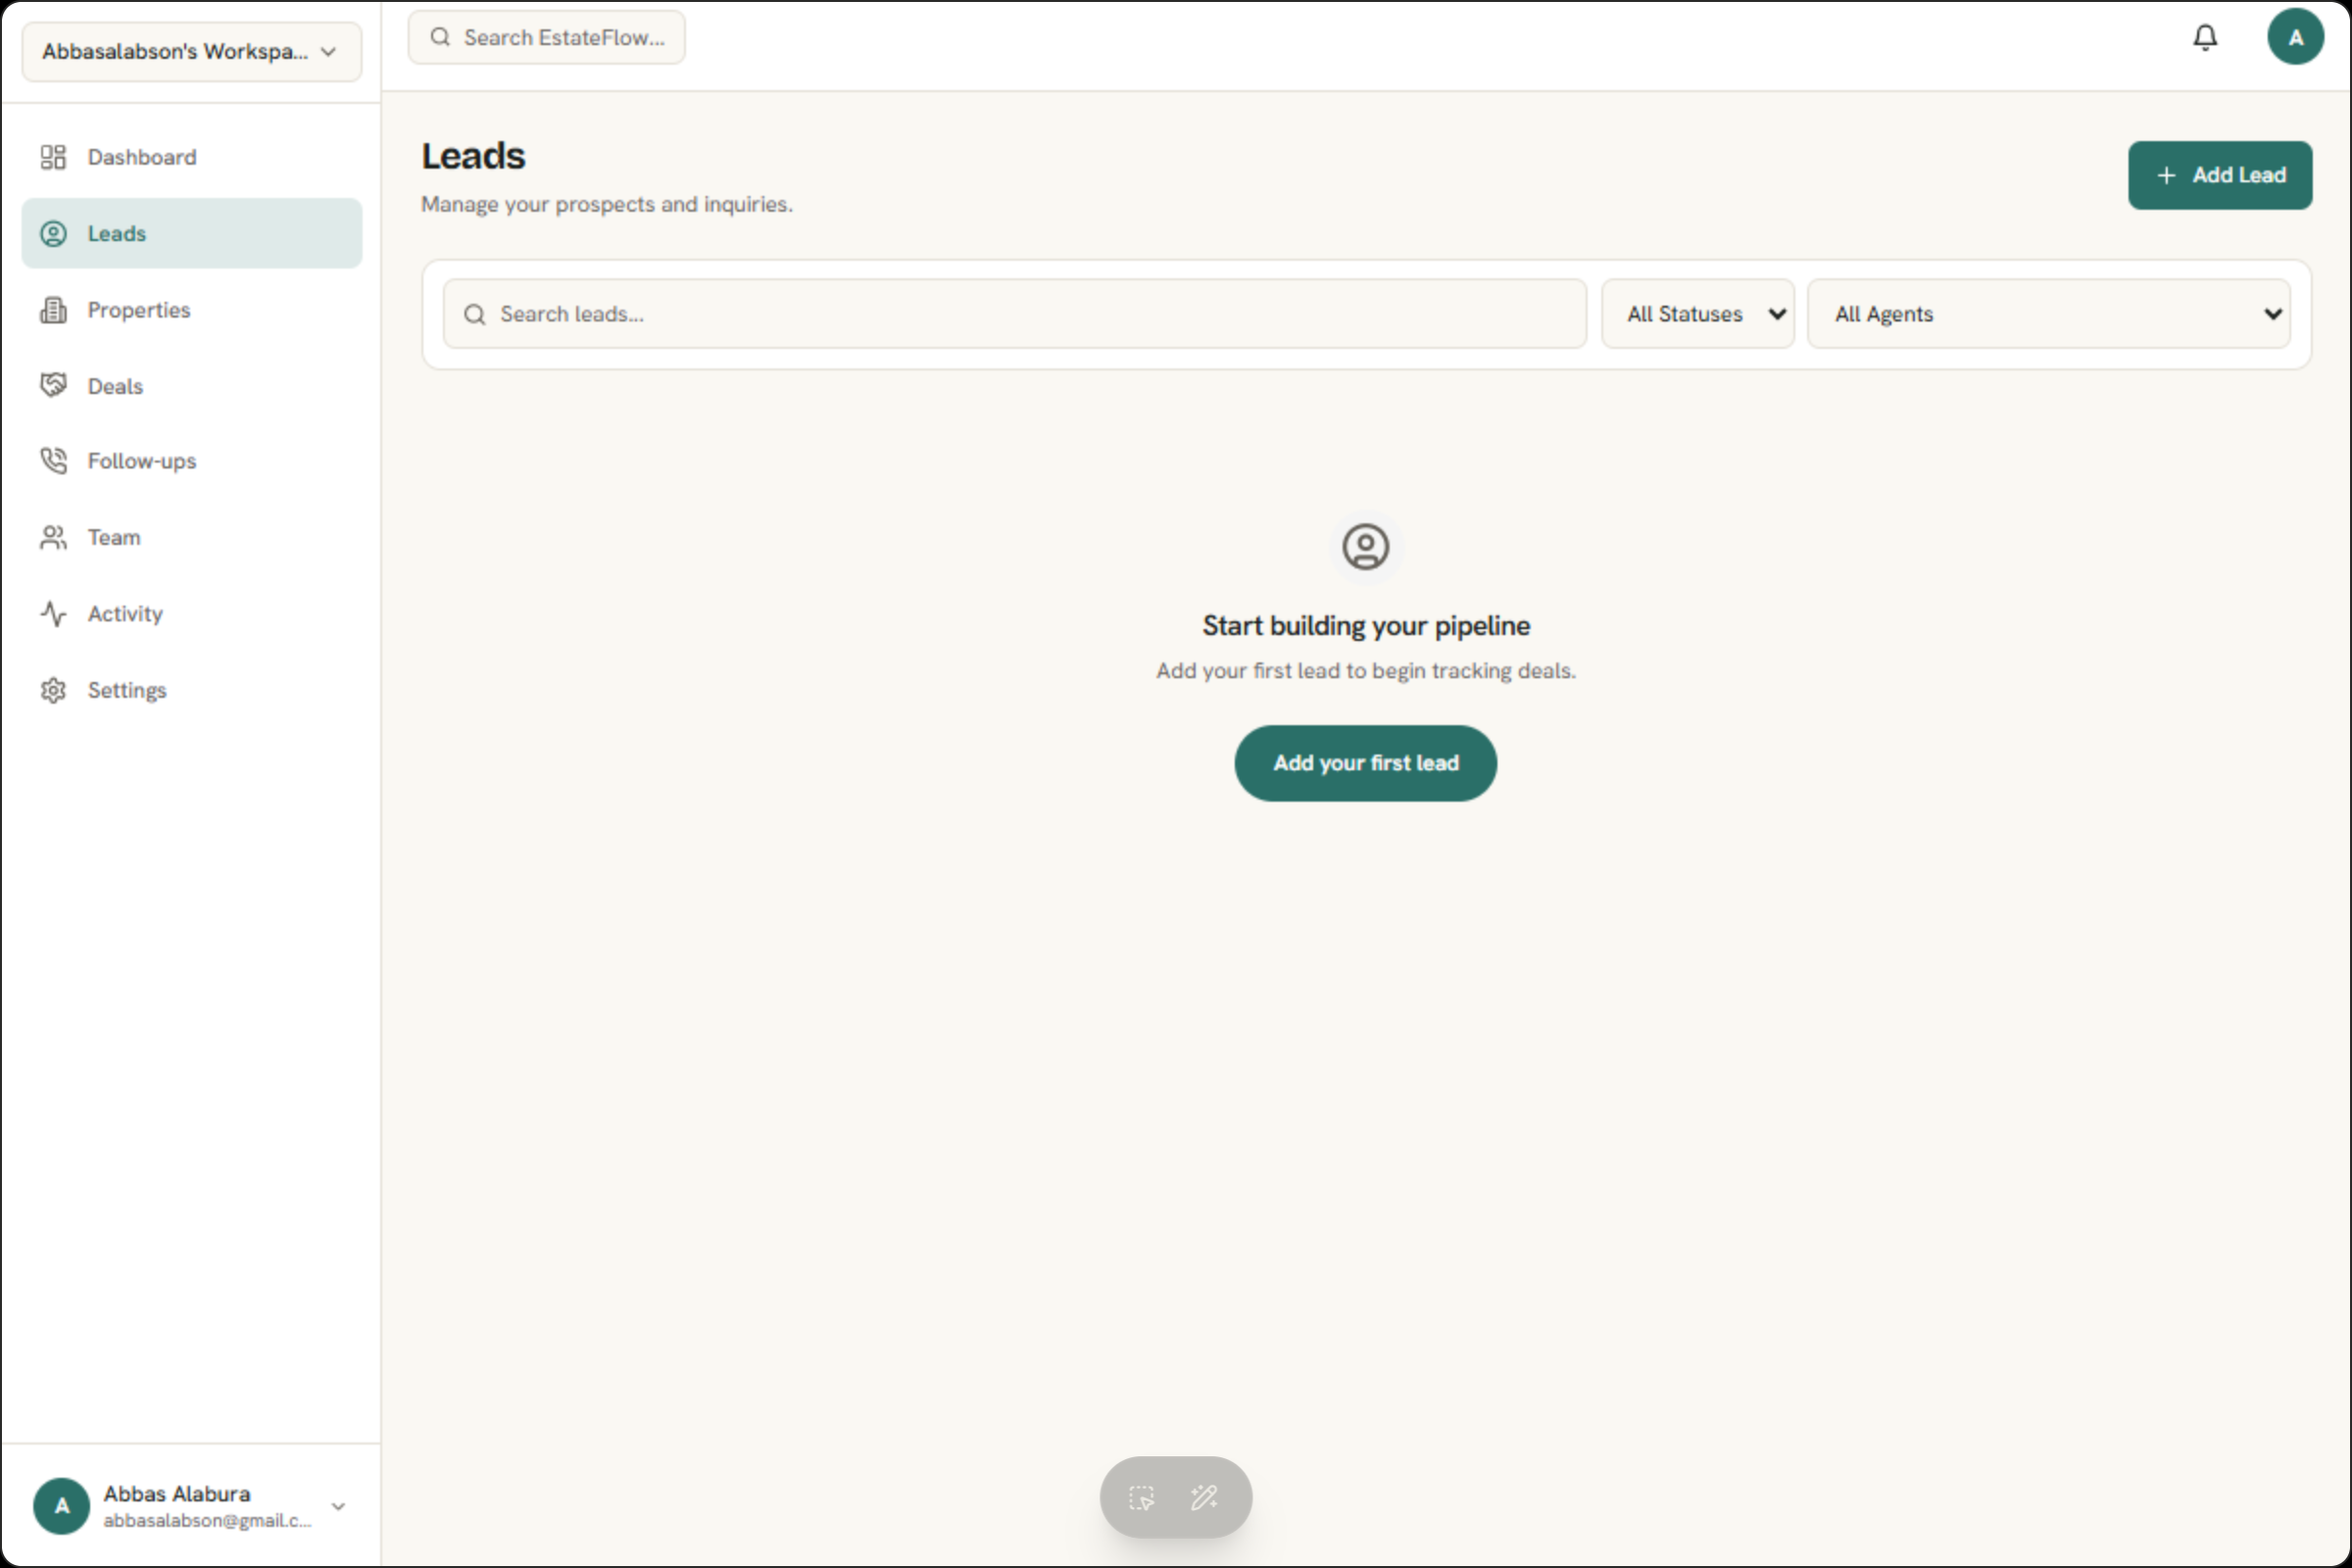
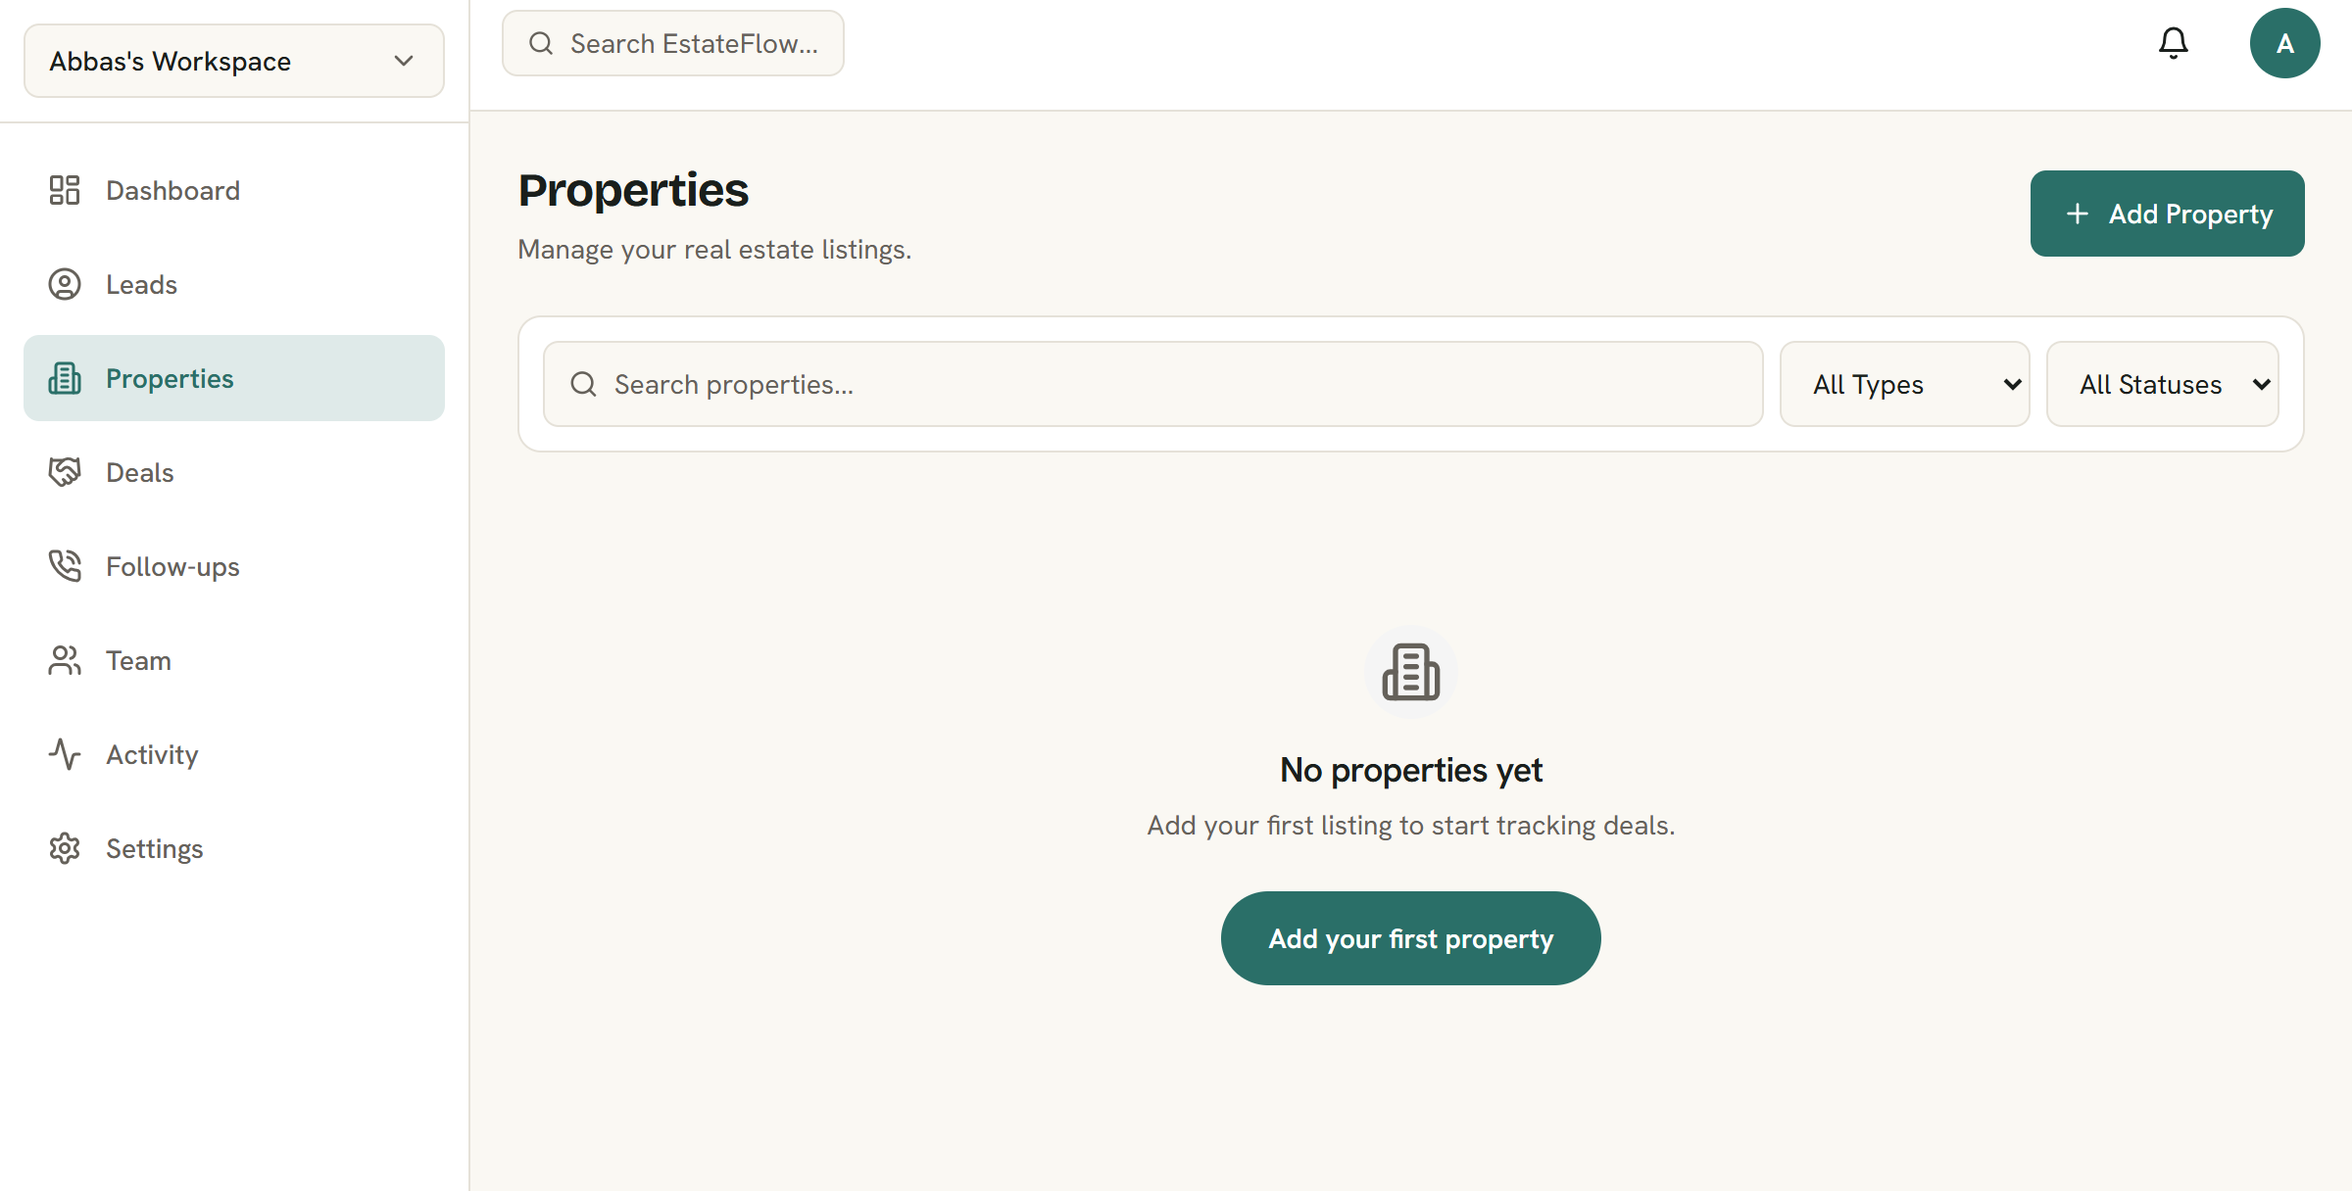
Brought back the floating nav in

diff --git a/public/js/page.js b/public/js/page.js
@@ -81,7 +81,7 @@ function wlStickyCta() {
   const setVisible = (on) => {
     if (dismissed) return;
     bar.hidden = false;
-    bar.classList.toggle('is-visible', on);
+    bar.classList.toggle('is-visible', Boolean(on));
   };
 
   const dismiss = bar.querySelector('[data-wl-sticky-dismiss]');
@@ -100,16 +100,21 @@ function wlStickyCta() {
   const st = ScrollTrigger.create({
     trigger: gate,
     start: 'top 85%',
-    onEnter: () => setVisible(true),
-    onEnterBack: () => setVisible(true),
-    onLeaveBack: () => setVisible(false),
+    onToggle: (self) => setVisible(self.isActive),
   });
+  /* Sync immediately — onToggle may not fire if we mount already past the gate. */
+  setVisible(st.isActive);
+
+  const onRefresh = () => {
+    if (!dismissed) setVisible(st.isActive);
+  };
+  ScrollTrigger.addEventListener('refresh', onRefresh);
 
   return () => {
+    ScrollTrigger.removeEventListener('refresh', onRefresh);
     st.kill();
     dismiss?.removeEventListener('click', onDismiss);
     bar.classList.remove('is-visible');
-    bar.hidden = true;
   };
 }
 

diff --git a/EDIT-LOG.md b/EDIT-LOG.md
@@ -4,6 +4,15 @@ Running record of design/implementation changes made while owning the lander dir
 
 ---
 
+## 2026-09-18 — Restore WL floating sticky CTA
+
+- Sticky stayed hidden after dismiss (`sessionStorage` early-return). Cleared that flag; dismiss is in-memory for the page view only (refresh restores).
+- Show trigger: ScrollTrigger on `#wl-market` at `top 85%` (after second section `.wl-trust`), Lenis-safe.
+- Raised z-index to 120; brighter ink-700 bar so it reads on page ground.
+- Files: `public/js/page.js`, `public/css/page.css`.
+
+---
+
 ## 2026-09-17 — WL visual polish (skeleton takeover, pain copy, expand z, own shots, store art)
 
 - `#wl-idea` takeover: `.wl-takeover--skeleton` — grey skeleton bars for URL/titles/CTAs/partner mark; AIWA logo + admin panel stay vivid.
